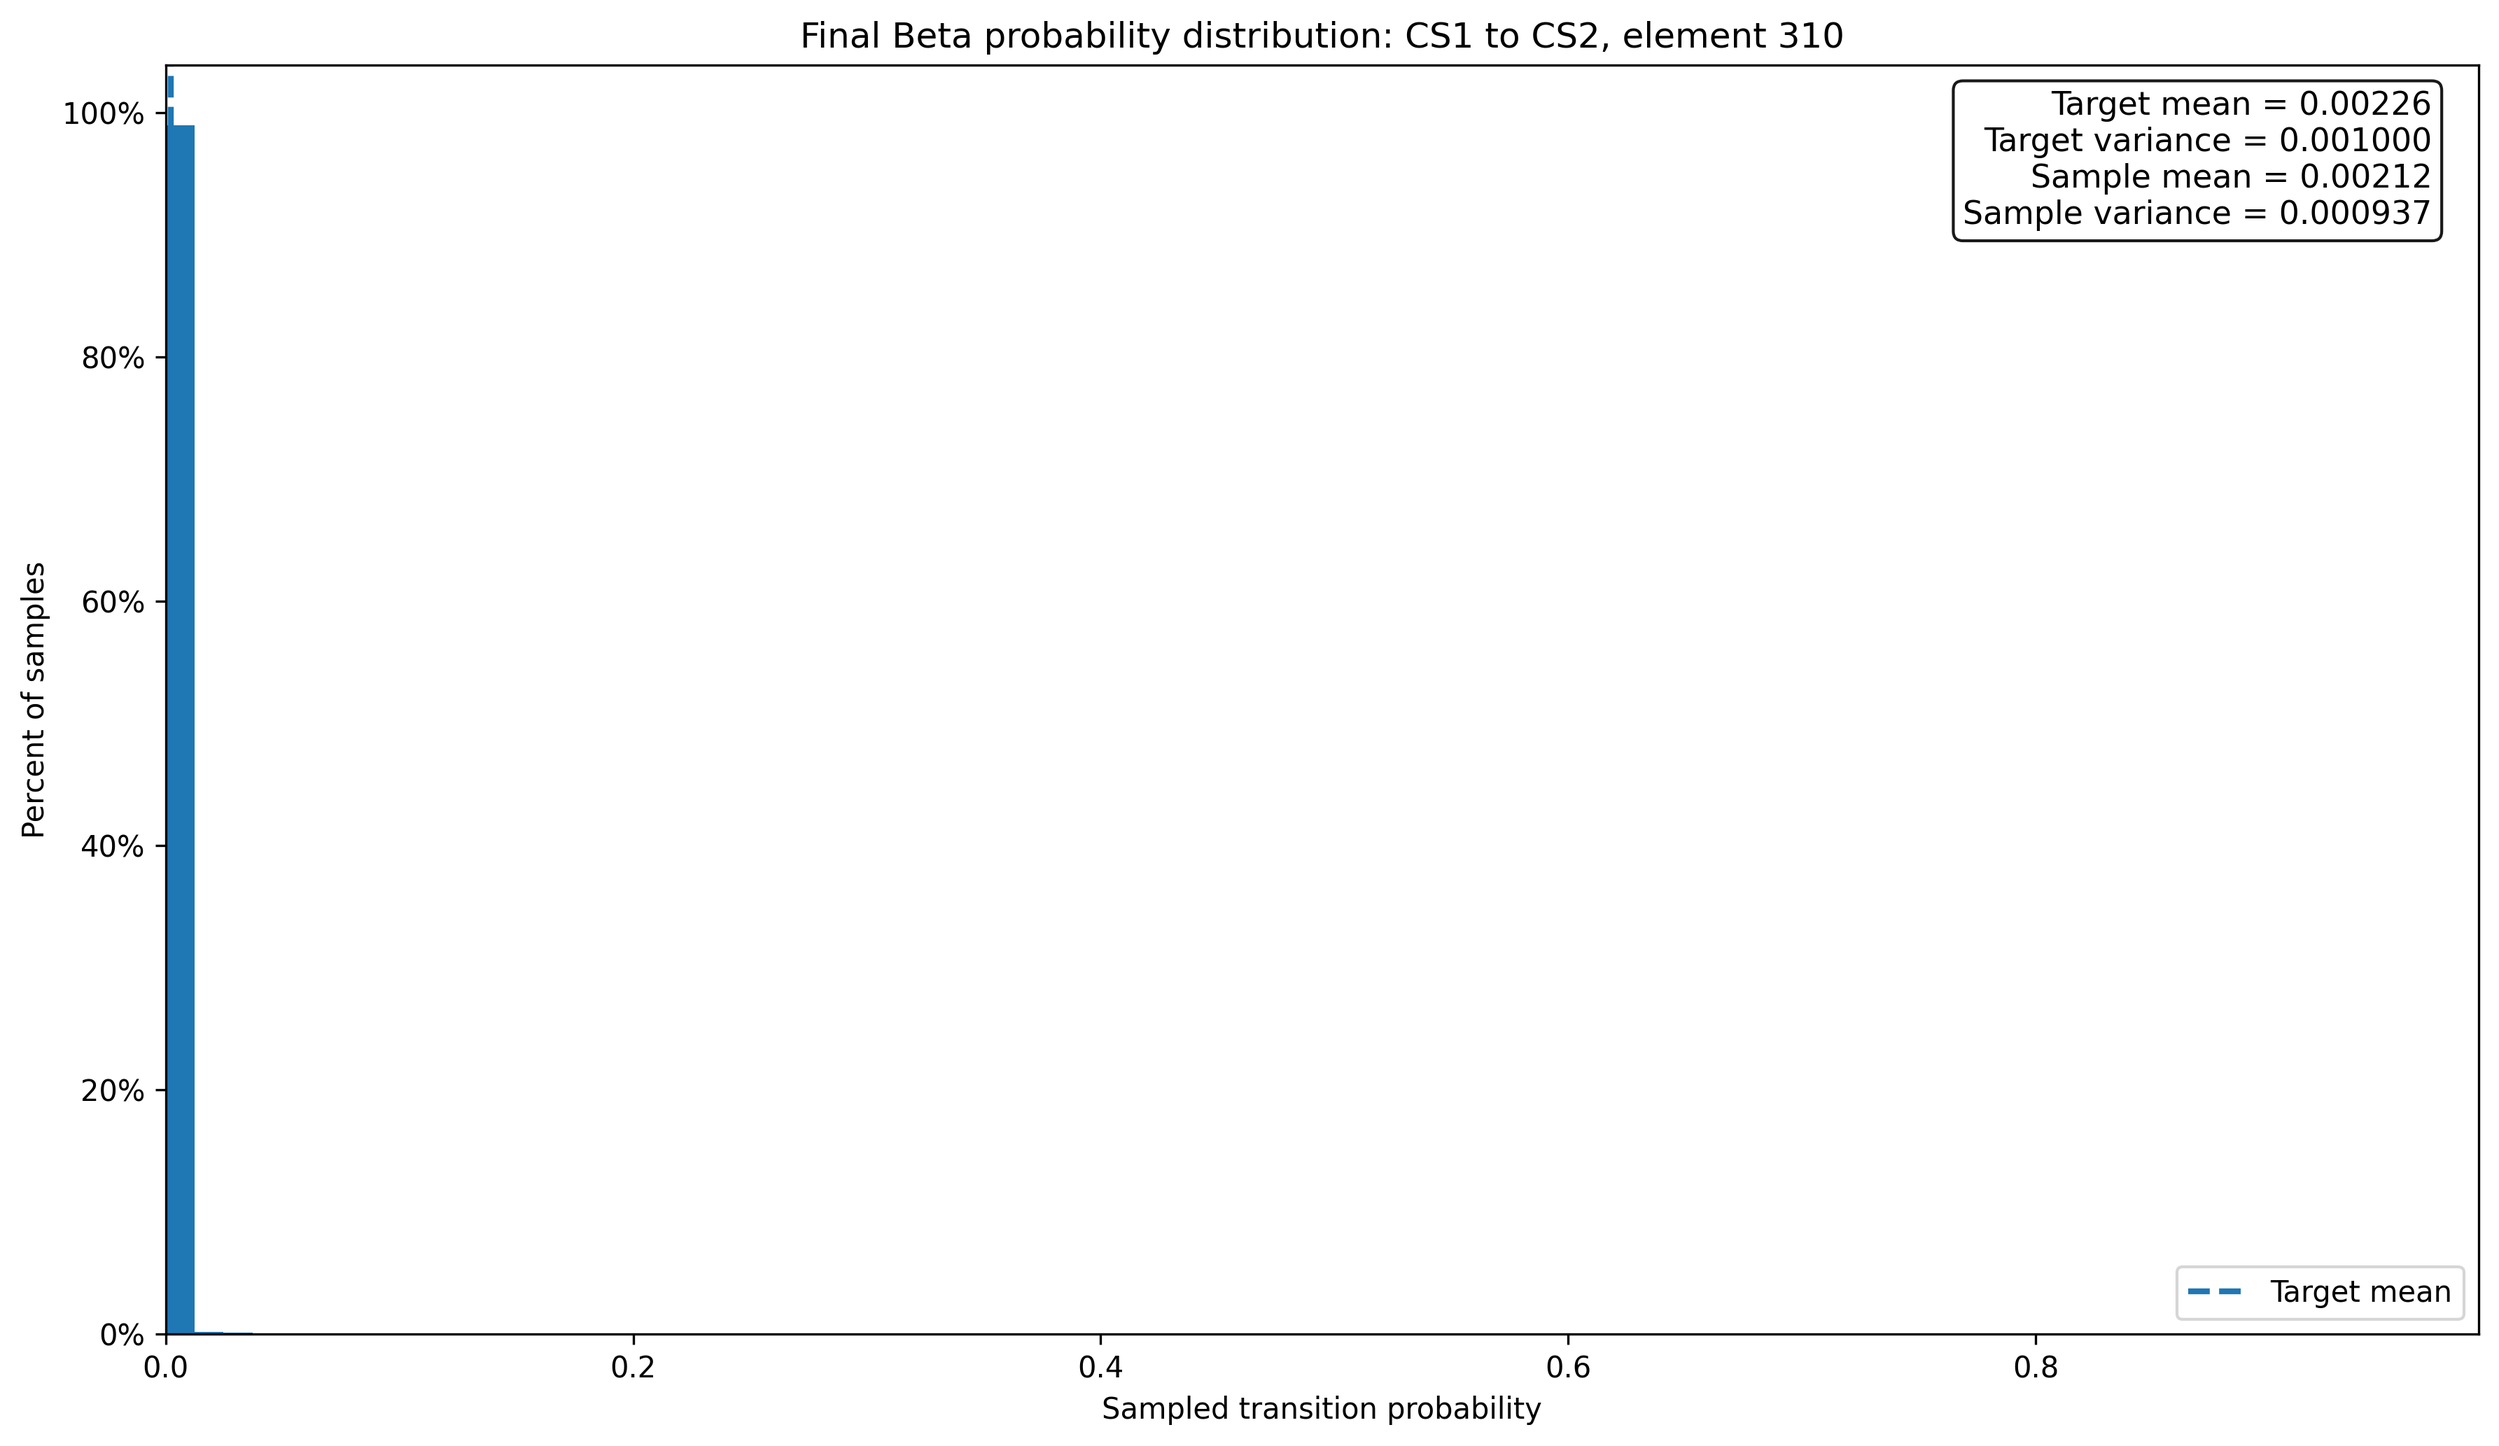
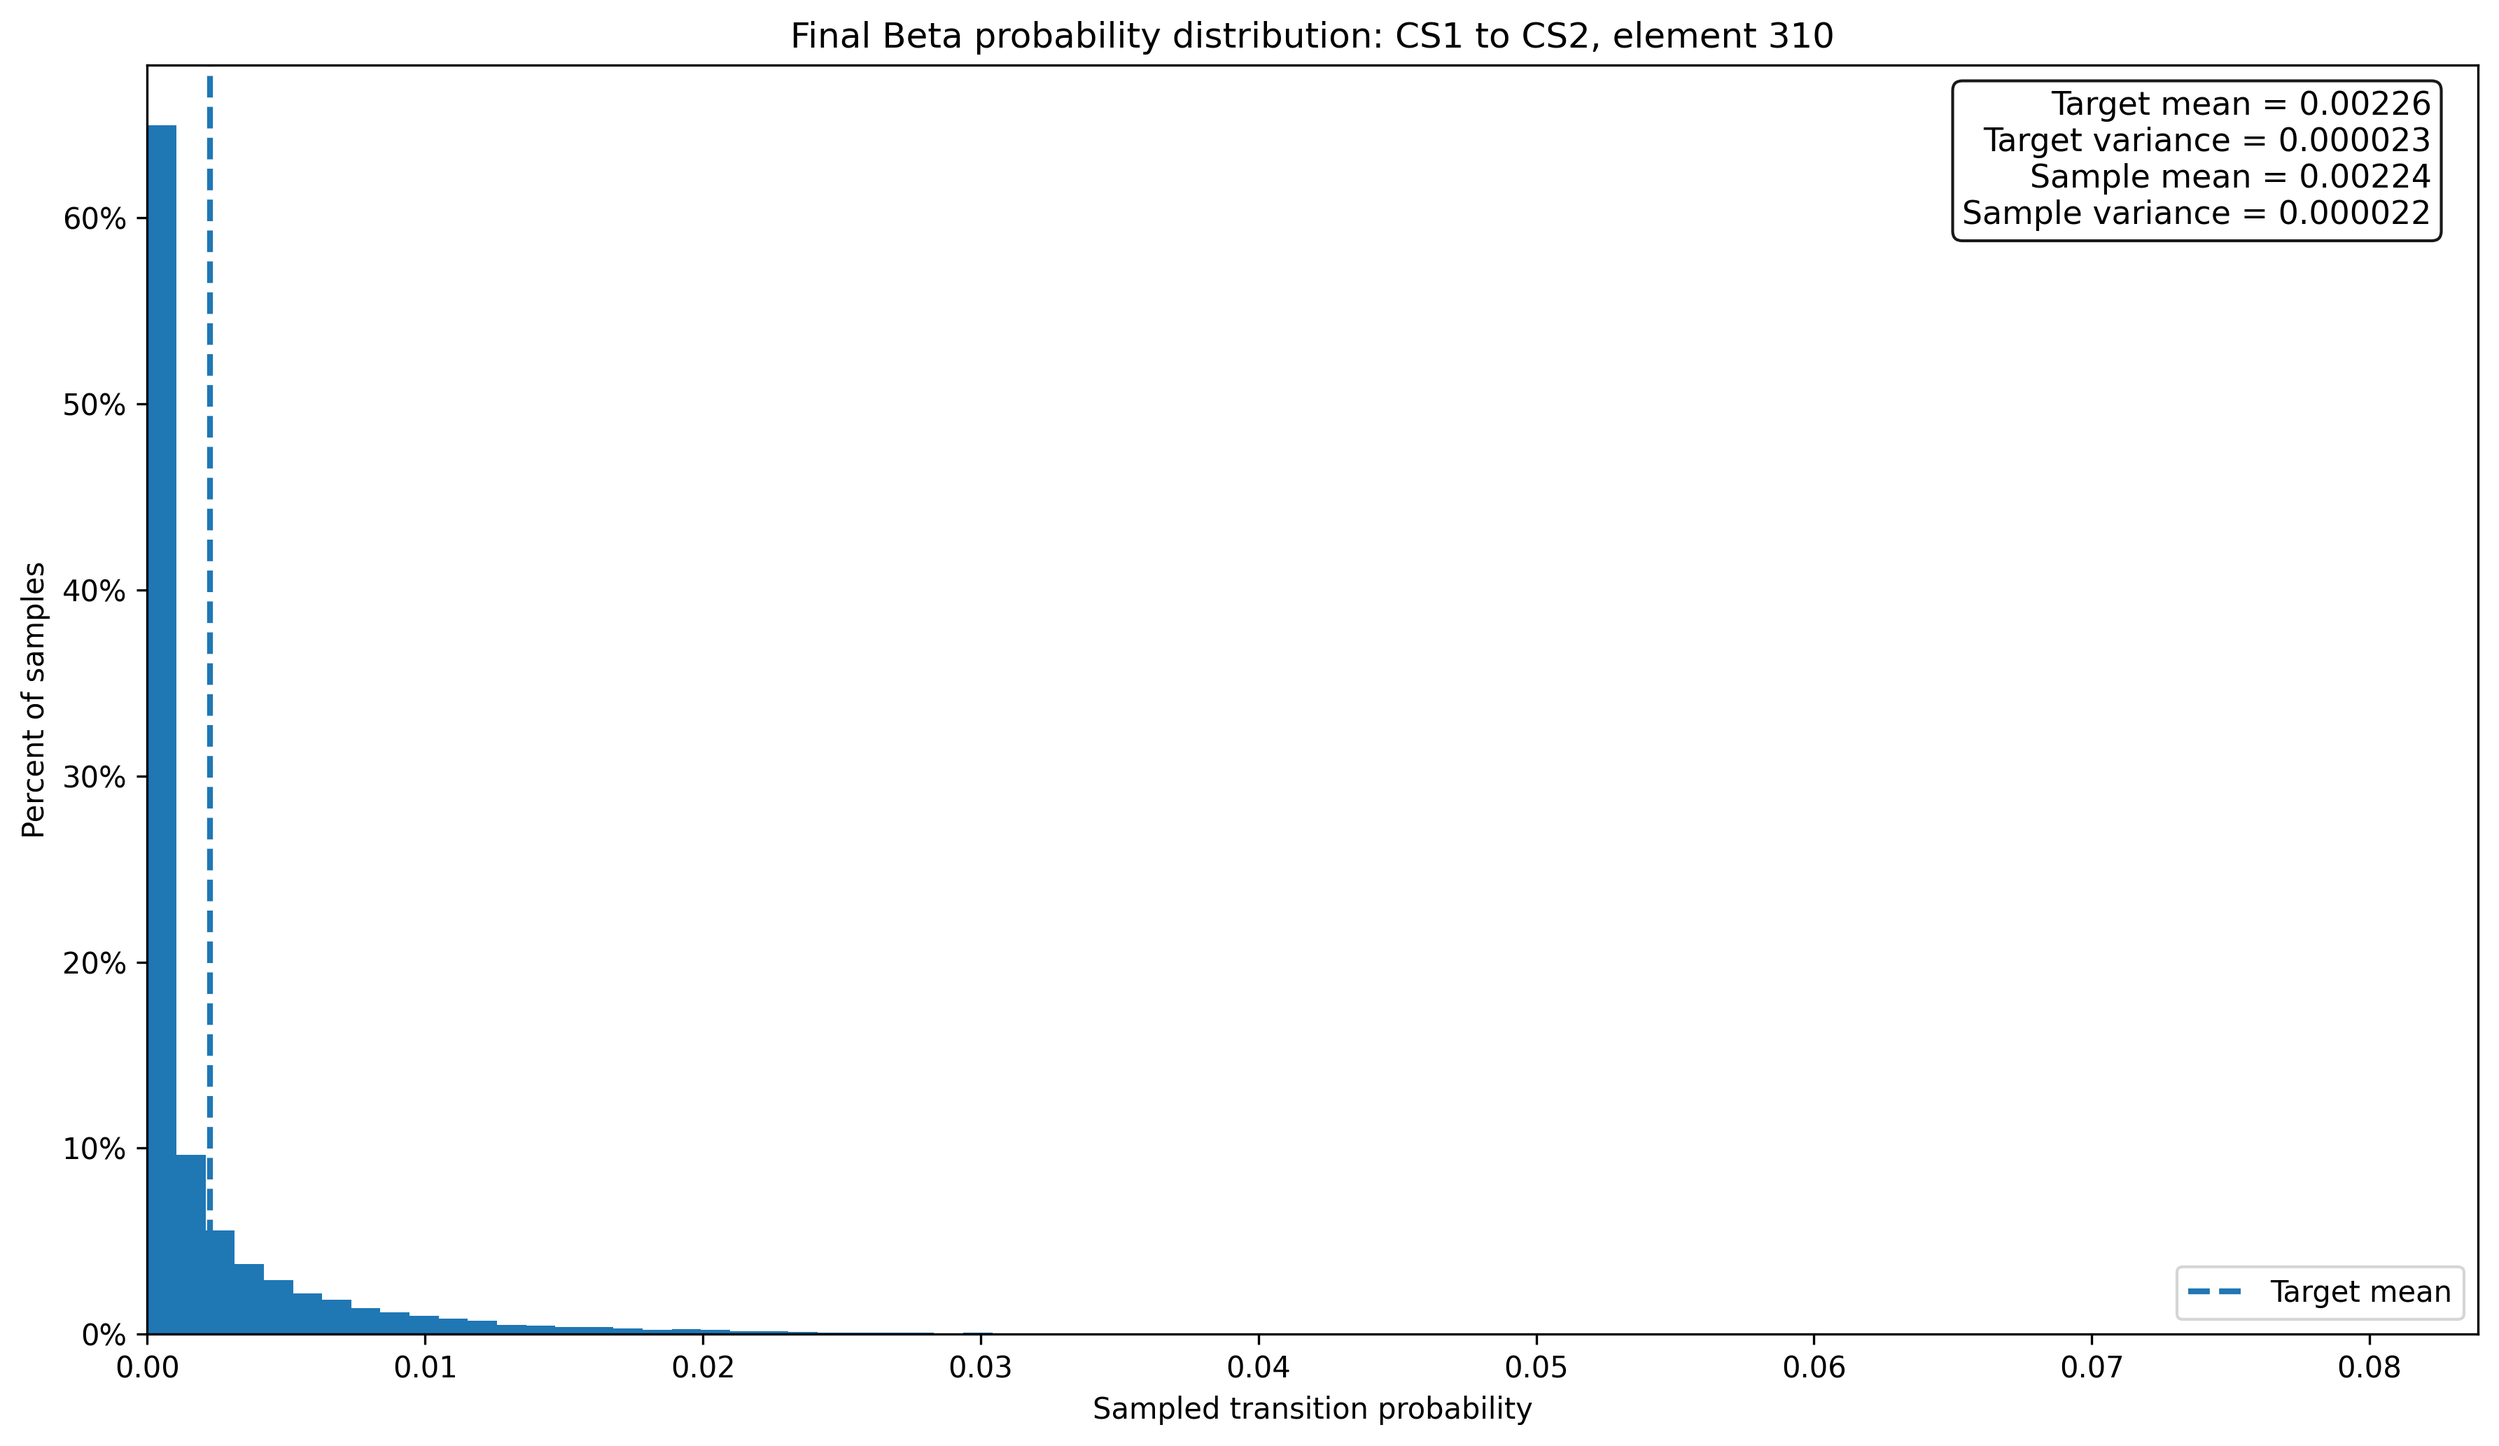
define variance of beta per element

diff --git a/bridge_gym/example_bridge_bhi/rl_env.py b/bridge_gym/example_bridge_bhi/rl_env.py
@@ -17,7 +17,7 @@ from .settings import (
     ELEMENT_WEIGHTS,
     ELEMENT_QUANTITIES,
     STATE_TRANSITION_MODE,
-    BETA_PROBABILITY_VARIANCE,
+    BETA_PROBABILITY_VARIANCES,
     ELEMENT_CORRELATION_MATRIX,
     ELEMENT_UNIT_COSTS,
     ACTION_REPLACEMENT_MASK,
@@ -45,7 +45,6 @@ class BridgeBHIEnv(gym.Env):
         reset_prob=None,
         reward_normalizer: float | None = None,
         transition_mode: str = STATE_TRANSITION_MODE,
-        beta_transition_variance: float = BETA_PROBABILITY_VARIANCE,
         element_correlation_matrix=ELEMENT_CORRELATION_MATRIX,
         render_mode=None,
         render_kwargs: dict | None = None,
@@ -79,18 +78,33 @@ class BridgeBHIEnv(gym.Env):
                 f"got {transition_mode!r}."
             )
 
+
+
+
+
+
         self.transition_mode = transition_mode
-        self.beta_transition_variance = float(beta_transition_variance)
         self.beta_transition_parameters = None
 
-
-
-        # Both Beta modes use the same element-specific alpha and beta parameters.
+        # Both Beta modes use the element-specific variances defined in settings.py.
         if self.transition_mode in {"beta", "correlated_beta"}:
-            if self.beta_transition_variance <= 0.0:
-                raise ValueError("beta_transition_variance must be positive.")
+
+            self.beta_transition_variances = {
+                int(element_no): float(
+                    BETA_PROBABILITY_VARIANCES[int(element_no)]
+                )
+                for element_no in self.element_numbers
+            }
+
 
             self.beta_transition_parameters = (self._build_beta_transition_parameters())
+
+
+
+
+
+
+
 
 
         # The correlation matrix is needed only in correlated_beta mode.
@@ -829,6 +843,7 @@ class BridgeBHIEnv(gym.Env):
             element_no = int(element_no)
 
             transition_matrix = DO_NOTHING_TRANSITIONS[element_no]
+            element_variance = self.beta_transition_variances[element_no]
 
             element_parameters = []
 
@@ -844,10 +859,10 @@ class BridgeBHIEnv(gym.Env):
                 # using method of moments to convert mean and variance to alpha and beta parameters of the Beta distribution
                 max_variance = mu * (1.0 - mu)
 
-                if self.beta_transition_variance >= max_variance:
+                if element_variance >= max_variance:
                     raise ValueError(
                         f"BETA_TRANSITION_VARIANCE="
-                        f"{self.beta_transition_variance} is too large "
+                        f"{element_variance} is too large "
                         f"for element {element_no}, "
                         f"CS{current_cs + 1}->CS{current_cs + 2}, "
                         f"whose mean is {mu:.8f}. "
@@ -859,7 +874,7 @@ class BridgeBHIEnv(gym.Env):
                 # kappa = mu(1-mu)/variance - 1
                 # alpha = mu * kappa
                 # beta  = (1-mu) * kappa
-                kappa = (max_variance/ self.beta_transition_variance- 1.0)
+                kappa = max_variance / element_variance - 1.0
 
                 alpha = mu * kappa
 

diff --git a/bridge_gym/example_bridge_bhi/settings.py b/bridge_gym/example_bridge_bhi/settings.py
@@ -44,7 +44,7 @@ __all__ = [
     "RUN_MODE_TAG",
     "ELEMENT_QUANTITIES",
     "STATE_TRANSITION_MODE",
-    "BETA_PROBABILITY_VARIANCE",
+    "BETA_PROBABILITY_VARIANCES",
     "ELEMENT_CORRELATION_MATRIX",
     "ELEMENT_UNIT_COSTS",
     "ACTION_NAMES",
@@ -130,12 +130,56 @@ reset_prob = None
 # STATE_TRANSITION_MODE = "multinomial_count"
 # STATE_TRANSITION_MODE = "beta"
 STATE_TRANSITION_MODE = "correlated_beta"
-# the assumed variance of the transition probabilities sampled from the Beta distributions.
-# For every deterioration probability with mean mu:
-#     0 < BETA_PROBABILITY_VARIANCE < mu * (1 - mu) becasue of equation of alpha and beta in method of moment(look at this link: https://en.wikipedia.org/wiki/Beta_distribution )
-# The most restrictive case among our active elements is element 109 for: μ=0.00178429 so μ(1−μ)=0.00178429(1−0.00178429)≈0.0017811
-# 0<v<0.0017811
-BETA_PROBABILITY_VARIANCE = 1.0e-3
+
+
+
+
+# Element-specific variance of the deterioration probabilities sampled from
+# the Beta distributions. One variance is used for all three deterioration
+# transitions of an element: CS1->CS2, CS2->CS3, and CS3->CS4.
+#
+# For every transition probability with mean mu, the strict mathematical rule is:
+#     0 < variance < mu * (1 - mu)
+# Therefore, each element's strict upper limit is the smallest mu*(1-mu)
+# among its three deterioration transitions.
+#
+# The practical ranges below are deliberately much smaller than the strict limits.
+# They give substantial stochastic variation while avoiding extremely boundary-
+# concentrated Beta distributions for the smallest transition mean.
+# BETA_PROBABILITY_VARIANCES = {
+#     12: 1.1208e-5,   # practical: 3.2e-5 to 1.0e-4; strict: 0 < v < 1.1208e-2
+#     109: 1.7811e-6,  # practical: 8.0e-7 to 2.5e-6; strict: 0 < v < 1.7811e-3
+#     205: 2.2731e-5,  # practical: 1.4e-4 to 4.3e-4; strict: 0 < v < 2.2731e-2
+#     215: 7.2392e-6,  # practical: 1.3e-5 to 4.3e-5; strict: 0 < v < 7.2392e-3
+#     234: 6.4212e-6,  # practical: 1.0e-5 to 3.3e-5; strict: 0 < v < 6.4212e-3
+#     306: 6.6442e-5,  # practical: 1.3e-3 to 4.1e-3; strict: 0 < v < 6.6442e-2
+#     310: 2.2553e-6,  # practical: 1.3e-6 to 4.1e-6; strict: 0 < v < 2.2553e-3
+#     331: 4.7841e-6,  # practical: 5.8e-6 to 1.8e-5; strict: 0 < v < 4.7841e-3
+# }
+
+BETA_PROBABILITY_VARIANCES = {
+    12: 1.1208e-4,   # practical: 3.2e-5 to 1.0e-4; strict: 0 < v < 1.1208e-2
+    109: 1.7811e-5,  # practical: 8.0e-7 to 2.5e-6; strict: 0 < v < 1.7811e-3
+    205: 2.2731e-4,  # practical: 1.4e-4 to 4.3e-4; strict: 0 < v < 2.2731e-2
+    215: 7.2392e-5,  # practical: 1.3e-5 to 4.3e-5; strict: 0 < v < 7.2392e-3
+    234: 6.4212e-5,  # practical: 1.0e-5 to 3.3e-5; strict: 0 < v < 6.4212e-3
+    306: 6.6442e-4,  # practical: 1.3e-3 to 4.1e-3; strict: 0 < v < 6.6442e-2
+    310: 2.2553e-5,  # practical: 1.3e-6 to 4.1e-6; strict: 0 < v < 2.2553e-3
+    331: 4.7841e-5,  # practical: 5.8e-6 to 1.8e-5; strict: 0 < v < 4.7841e-3
+}
+
+
+
+
+
+
+
+
+
+
+
+
+
 
 
 

diff --git a/verify_correlation_coefficients.py b/verify_correlation_coefficients.py
@@ -35,7 +35,7 @@ from scipy.stats import norm, spearmanr
 
 from bridge_gym.example_bridge_bhi.rl_env import BridgeBHIEnv
 from bridge_gym.example_bridge_bhi.settings import (
-    BETA_PROBABILITY_VARIANCE,
+    BETA_PROBABILITY_VARIANCES,
     DO_NOTHING_TRANSITIONS,
     ELEMENT_CORRELATION_MATRIX,
     ELEMENT_NUMBERS,
@@ -245,7 +245,6 @@ def main():
         include_step_count=include_step_count,
         reset_prob=reset_prob,
         transition_mode="correlated_beta",
-        beta_transition_variance=BETA_PROBABILITY_VARIANCE,
         element_correlation_matrix=ELEMENT_CORRELATION_MATRIX,
         seed=SEED,
     )
@@ -515,7 +514,7 @@ def main():
                     ],
                     target_mean=target_mean,
                     target_variance=float(
-                        BETA_PROBABILITY_VARIANCE
+                        BETA_PROBABILITY_VARIANCES[element_number]
                     ),
                     alpha=alpha,
                     beta_parameter=beta_parameter,
